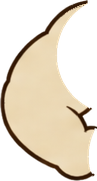
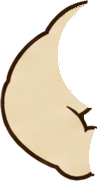
운동기록 프로토타입 v2.10 — 이무 Lv.60·70 rig 레이어 8개 교체(design nijim_imu_rig_seam_20261122: 턱 아래 이중선·어깨 흰 곡선·오른 허벅지 겹선 정리, 같은 이름·크기) + 시그니처 포즈 클립 끝→rig 전환 때 표정 덮개(.face.art) opacity 0→1 200ms 페이드(.posing 중 0) · anim.js 무변경 · 캐시키 v=2.10 · 되돌릴 곳 8bd4be8c

diff --git a/index.html b/index.html
@@ -5,8 +5,8 @@
 <meta name="viewport" content="width=device-width, initial-scale=1, viewport-fit=cover">
 <title>니짐내짐 운동기록 · 캐릭터 성장 프로토타입</title>
 <link rel="stylesheet" href="https://cdn.jsdelivr.net/gh/orioncactus/pretendard/dist/web/static/pretendard.css">
-<link rel="stylesheet" href="style.css?v=2.09">
-<link rel="stylesheet" href="admin.css?v=2.09">
+<link rel="stylesheet" href="style.css?v=2.10">
+<link rel="stylesheet" href="admin.css?v=2.10">
 </head>
 <body>
 <div class="app" id="app">
@@ -47,32 +47,32 @@
   <div class="evo-hint" id="evoHint">화면을 탭하면 건너뛰어요</div>
 </div>
 
-<script src="assets/chars.js?v=2.09"></script>
-<script src="assets/anim/anim.js?v=2.09"></script>
-<script src="exercises.js?v=2.09"></script>
-<script src="ex_guide.js?v=2.09"></script>
-<script src="engine.js?v=2.09"></script>
-<script src="config_store.js?v=2.09"></script>
-<script src="admin_shop82.js?v=2.09"></script>
-<script src="assets/food/points.js?v=2.09"></script>
-<script src="eat.js?v=2.09"></script>
-<script src="charanim.js?v=2.09"></script>
-<script src="qr.js?v=2.09"></script>
-<script src="center_machines.js?v=2.09"></script>
-<script src="gymreq.js?v=2.09"></script>
-<script src="item_config.js?v=2.09"></script>
-<script src="equip.js?v=2.09"></script>
-<script src="gear.js?v=2.09"></script>
-<script src="coach_ai.js?v=2.09"></script>
-<script src="app.js?v=2.09"></script>
-<script src="coach_config.js?v=2.09"></script>
-<script src="screens2.js?v=2.09"></script>
-<script src="badges.js?v=2.09"></script>
-<script src="coach_info.js?v=2.09"></script>
-<script src="center_rank.js?v=2.09"></script>
-<script src="ranking.js?v=2.09"></script>
-<script src="share.js?v=2.09"></script>
-<script src="feed.js?v=2.09"></script>
-<script src="admin.js?v=2.09"></script>
+<script src="assets/chars.js?v=2.10"></script>
+<script src="assets/anim/anim.js?v=2.10"></script>
+<script src="exercises.js?v=2.10"></script>
+<script src="ex_guide.js?v=2.10"></script>
+<script src="engine.js?v=2.10"></script>
+<script src="config_store.js?v=2.10"></script>
+<script src="admin_shop82.js?v=2.10"></script>
+<script src="assets/food/points.js?v=2.10"></script>
+<script src="eat.js?v=2.10"></script>
+<script src="charanim.js?v=2.10"></script>
+<script src="qr.js?v=2.10"></script>
+<script src="center_machines.js?v=2.10"></script>
+<script src="gymreq.js?v=2.10"></script>
+<script src="item_config.js?v=2.10"></script>
+<script src="equip.js?v=2.10"></script>
+<script src="gear.js?v=2.10"></script>
+<script src="coach_ai.js?v=2.10"></script>
+<script src="app.js?v=2.10"></script>
+<script src="coach_config.js?v=2.10"></script>
+<script src="screens2.js?v=2.10"></script>
+<script src="badges.js?v=2.10"></script>
+<script src="coach_info.js?v=2.10"></script>
+<script src="center_rank.js?v=2.10"></script>
+<script src="ranking.js?v=2.10"></script>
+<script src="share.js?v=2.10"></script>
+<script src="feed.js?v=2.10"></script>
+<script src="admin.js?v=2.10"></script>
 </body>
 </html>

diff --git a/style.css b/style.css
@@ -594,6 +594,8 @@ body.wk .replink>span.muted,body.wk .replink>span:last-child{flex:none;white-spa
 .cwrap .sigclip{position:absolute;left:0;top:0;width:160px;height:128px;display:none;z-index:3}   /* 3단계 포즈 클립(320×256 @2x) 겹침 */
 .cwrap.posing .sigclip{display:block}
 .cwrap.posing .cimg{visibility:hidden}   /* 링은 그대로 두고 그림만 클립으로 바꿈(링 깜빡임 방지) */
+.cwrap .cimg .face.art{transition:opacity .2s ease-out}   /* v2.10 클립→rig 넘어갈 때 표정 덮개가 툭 튀지 않게 0→1 페이드 */
+.cwrap.posing .cimg .face.art{opacity:0;transition:none}
 .evo-clip{position:absolute;bottom:0;left:50%;transform:translateX(-50%);display:none;border-radius:20px;overflow:hidden;z-index:3}
 .evo-stage .evo-clip img{position:static;transform:none;max-width:none;width:100%;height:100%;display:block}
 .evo.clip .evo-rays,.evo.clip .evo-ring,.evo.clip .evo-old,.evo.clip .evo-new{display:none}

diff --git a/app.js b/app.js
@@ -2,7 +2,7 @@
 /* v1.12 — v1.11(C안 1/4 고객 앱 기록 흐름 전부) + 결정 33: 아이템 경험치는 한도 없음(운동 경험치만 하루 600·주 1,800).
    경험치·레벨·표정·랭킹 계산은 engine.js 한 곳(CFG·sessionXP·capGain·applyXP·judgeIntensity·exprFor·forecastWeek). 이 파일은 화면만 */
 const KEY = 'nijim_workout_proto_v111';
-const VER = 'v2.09';
+const VER = 'v2.10';
 /* 확정 12종(결정 22~25) — design v13 정본 · 레벨 띠 11컷 · 표정 5종. 12종 모두 처음부터 선택 가능(결정 25) */
 const CH = {
   mungchi:   { name: '뭉치', josa: '가', intro: '느긋하고 솔직한 땀방울 슬라임' },
